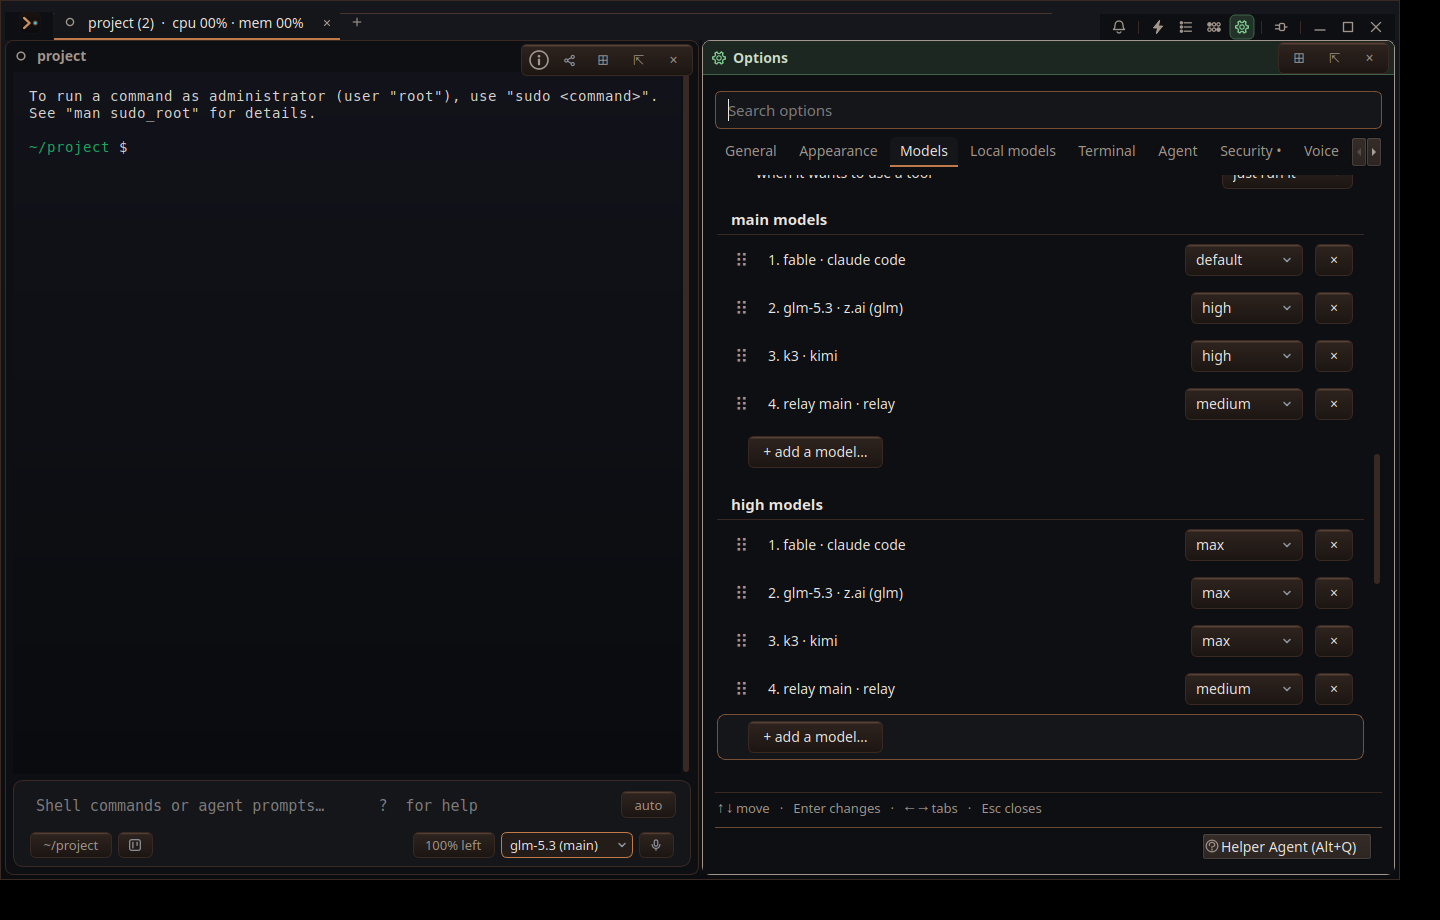
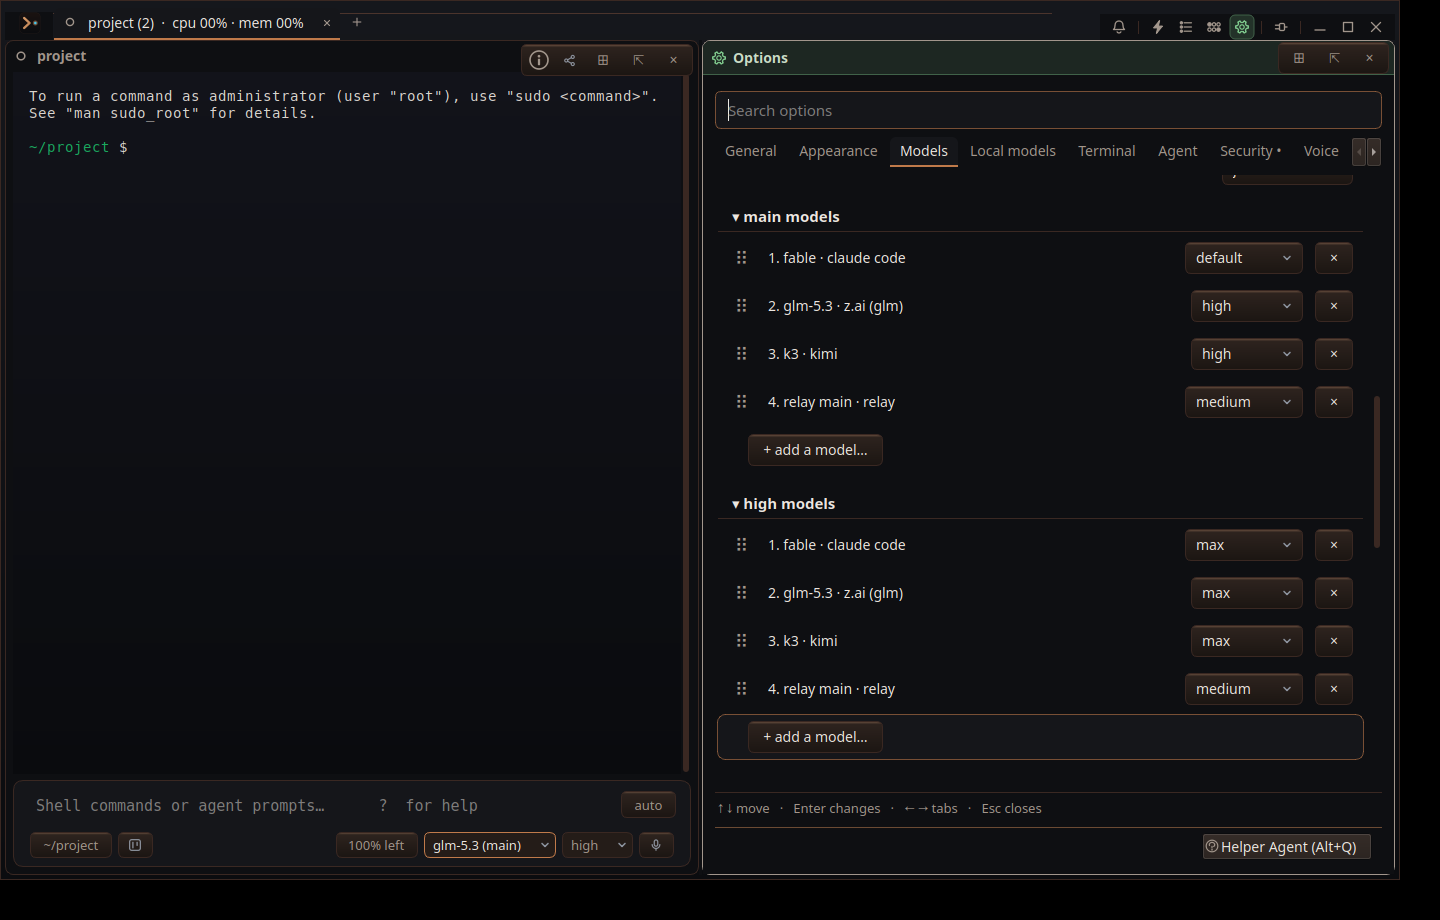
evidence: the split pickers, the folded providers and the level box beside the model box

diff --git a/docs/qa_evidence/2026-09-20-models-page-and-picker/NOTES.md b/docs/qa_evidence/2026-09-20-models-page-and-picker/NOTES.md
@@ -6,10 +6,10 @@ no prompt is ever submitted. `drive.sh [build-dir]` reproduces every shot.
 | shot | what it shows |
 |---|---|
 | implementer-a-box-open.png | the pane's model box open: `glm-5.3 (main)` / `glm-5.3-flash (flash)` role rows, then one row per catalog model in rank order, lower-case, `model · provider`; then `more models…` and `⚙ customize…` |
-| implementer-b-picker.png | Ctrl+Alt+M: the picker — filter, sort menu (priority), columns model · provider · reasoning · intelligence · tok/s · left; the current row bold and selected; the reasoning column is the level the pane would run at after the pick (the lists' entry, else the pane's own), not a control — the level is the composer's level box (Alt+E); ☆ favorite, customize…, use, cancel |
+| implementer-b-picker.png | Ctrl+Alt+M: the picker — filter, sort menu, the model list, and the reasoning level as its own list at the right, preset to the tier lists' level for the highlighted model (→ moves into it, ← back, Enter uses both); ☆ favorite, customize…, use, cancel. The composer strip below shows the model box and, right of it, the thin level box (Alt+E) |
 | implementer-c-picker-filter.png | `flash` typed: one flat list of the two matching rows, the first selected |
 | implementer-d-picker-sort.png | the sort menu open (priority, a to z, intelligence, speed, most used, subscription left) |
-| implementer-e-options.png | `/models`: Options › Models — the providers group: only providers with a key (ordered by intelligence), Relay Free, OpenRouter always, Claude Code and Codex with `change login` / `test`; the rest behind `+ add provider` |
+| implementer-e-options.png | `/models`: Options › Models — every section heading folds; providers fold by default once one is set up (▸ providers), the checklist open beneath |
 | implementer-g-options-checklist.png | the checklist group: one checkbox per provider ("3 of 3 models in the picker"; off hides all and folds the group), the models indented under it; the small "openrouter fallback" switch appears under a model only once an OpenRouter key is stored (none in this profile) |
 | implementer-h-options-priority.png | the tier lists (evening): main models filled from the worker's defaults — fable · claude code at max, glm-5.3 at high, k3 at high, relay main at medium — then high models at max, flash at low; each row a grip, the level in the provider's words, and × |
 | implementer-f-options-down.png | the same page at the end of the priority list (↑ ↓ per row, reset) and the defaults group |
